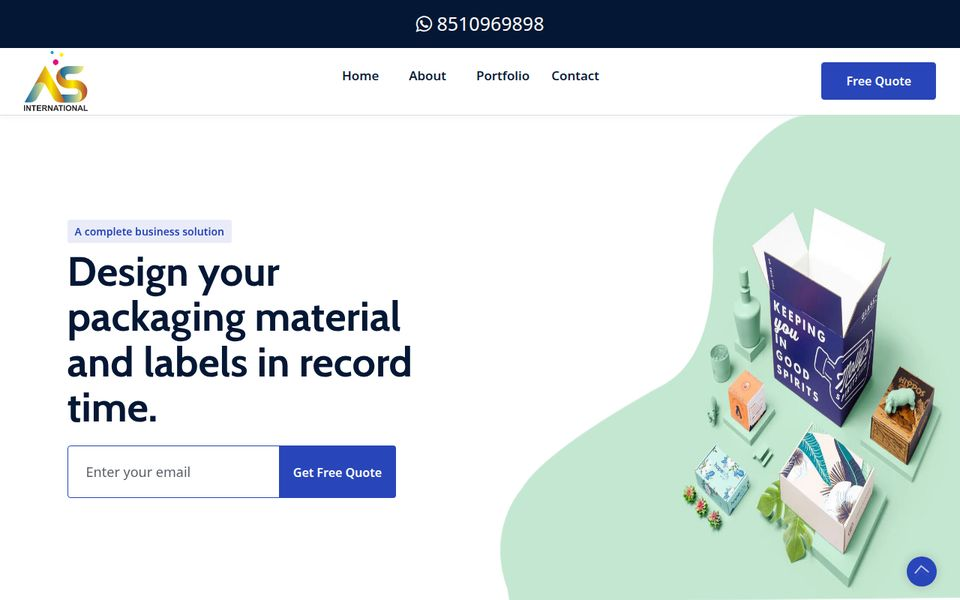
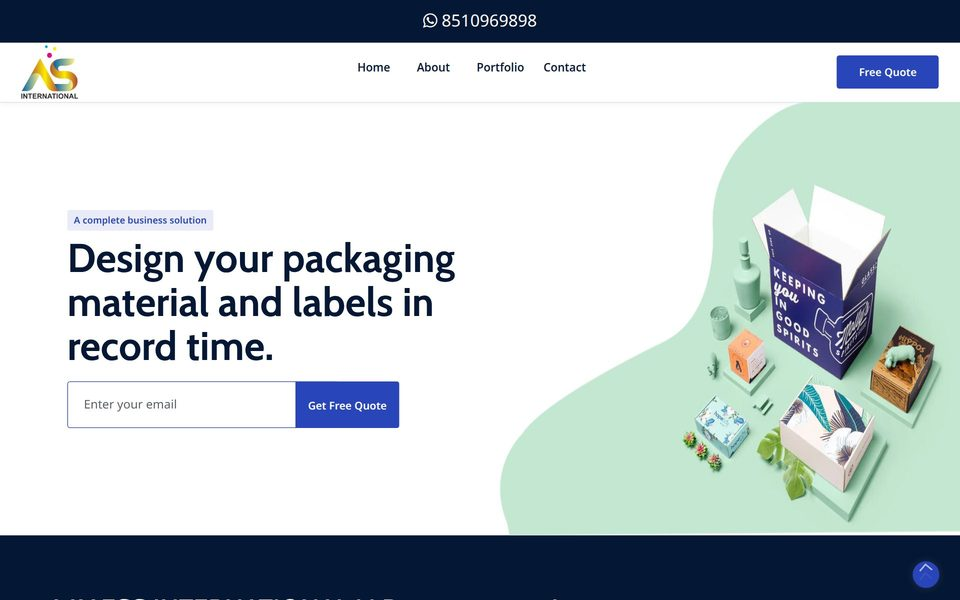
Founder on the About page, sharper work screenshots for high-resolution screens, first four blog posts added as drafts

diff --git a/console/migrations/m261129_100000_add_first_blog_posts.php b/console/migrations/m261129_100000_add_first_blog_posts.php
@@ -1,0 +1,259 @@
+<?php
+
+declare(strict_types=1);
+
+use yii\db\Migration;
+
+/**
+ * The blog's first four posts, added as Drafts: staff read them, add a cover image and publish from the admin.
+ * Can be run again: a post or category whose slug already exists is left as it is.
+ */
+final class m261129_100000_add_first_blog_posts extends Migration
+{
+    private const CATEGORIES = [
+        'guides' => 'Guides for business owners',
+        'working-with-a-developer' => 'Working with a developer',
+    ];
+
+    public function safeUp(): void
+    {
+        $now = time();
+        $categoryIds = [];
+        foreach (self::CATEGORIES as $slug => $name) {
+            $id = $this->db->createCommand('SELECT id FROM {{%blog_category}} WHERE slug = :slug', [':slug' => $slug])->queryScalar();
+            if ($id === false) {
+                $this->insert('{{%blog_category}}', ['name' => $name, 'slug' => $slug, 'created_at' => $now, 'updated_at' => $now]);
+                $id = $this->db->getLastInsertID();
+            }
+            $categoryIds[$slug] = (int) $id;
+        }
+        foreach (self::posts() as $post) {
+            $exists = $this->db->createCommand('SELECT 1 FROM {{%blog_post}} WHERE slug = :slug', [':slug' => $post['slug']])->queryScalar();
+            if ($exists !== false) {
+                continue;
+            }
+            $this->insert('{{%blog_post}}', [
+                'category_id' => $categoryIds[$post['category']],
+                'title' => $post['title'],
+                'slug' => $post['slug'],
+                'summary' => $post['summary'],
+                'body' => $post['body'],
+                'seo_title' => $post['seo_title'],
+                'status' => 0,
+                'created_at' => $now,
+                'updated_at' => $now,
+            ]);
+        }
+    }
+
+    public function safeDown(): void
+    {
+        // Only drafts nobody has published; categories are kept if any post uses them.
+        $this->delete('{{%blog_post}}', ['slug' => array_column(self::posts(), 'slug'), 'status' => 0]);
+        foreach (array_keys(self::CATEGORIES) as $slug) {
+            $id = $this->db->createCommand('SELECT id FROM {{%blog_category}} WHERE slug = :slug', [':slug' => $slug])->queryScalar();
+            if ($id !== false && $this->db->createCommand('SELECT COUNT(*) FROM {{%blog_post}} WHERE category_id = :id', [':id' => $id])->queryScalar() == 0) {
+                $this->delete('{{%blog_category}}', ['id' => $id]);
+            }
+        }
+    }
+
+    /** @return list<array{slug: string, category: string, title: string, seo_title: string, summary: string, body: string}> */
+    private static function posts(): array
+    {
+        return [
+            [
+                'slug' => 'php-8-2-end-of-life-31-december-2026',
+                'category' => 'guides',
+                'title' => 'PHP 8.2 stops getting security fixes on 31 December 2026: is your website ready?',
+                'seo_title' => 'PHP 8.2 end of life on 31 December 2026: what to do',
+                'summary' => 'After 31 December 2026, PHP 8.2 gets no more security fixes. How to check which PHP version your website runs, what can break when you upgrade, and a safe way to move to PHP 8.4 or 8.5.',
+                'body' => <<<'HTML'
+<p>Most business websites, online shops and customer portals run on PHP. Each PHP version is supported for four years: two years of bug fixes, then two years of security fixes only. After that, newly found security holes in that version are no longer fixed.</p>
+<p><strong>PHP 8.2 reaches that point on 31 December 2026.</strong> PHP 8.1 already did on 31 December 2025. If your website runs on either, it is time to plan the upgrade.</p>
+
+<h2>Where each version stands</h2>
+<ul>
+<li><strong>PHP 8.1:</strong> no security fixes since 31 December 2025.</li>
+<li><strong>PHP 8.2:</strong> security fixes until 31 December 2026.</li>
+<li><strong>PHP 8.3:</strong> security fixes until 31 December 2027.</li>
+<li><strong>PHP 8.4:</strong> security fixes until 31 December 2028.</li>
+<li><strong>PHP 8.5:</strong> security fixes until 31 December 2029.</li>
+</ul>
+<p>Anything older (PHP 7.x, 5.x) has been unsupported for years. If your site still runs on one of these, it is the most urgent case of all.</p>
+
+<h2>Why it matters even if the site "works fine"</h2>
+<p>An old PHP version does not stop working on the last day. The risk is quieter: when a new security problem is found, it is fixed in the supported versions only. Your site stays exposed, and attackers scan the web for exactly these sites. Many hosting companies also remove old PHP versions from their servers over time, and the upgrade then happens on their schedule instead of yours.</p>
+
+<h2>How to check your PHP version</h2>
+<ul>
+<li><strong>cPanel hosting:</strong> open <em>Select PHP Version</em> or <em>MultiPHP Manager</em>. The current version is shown for each domain.</li>
+<li><strong>WordPress:</strong> go to <em>Tools → Site Health → Info → Server</em>.</li>
+<li><strong>Not sure?</strong> Ask your developer or hosting provider. It is a one-minute question for them.</li>
+</ul>
+
+<h2>What can break when you upgrade</h2>
+<p>Newer PHP versions remove or tighten things that older code relied on. The usual problems are:</p>
+<ul>
+<li><strong>Old plugins, themes or extensions</strong> that were never updated by their authors.</li>
+<li><strong>Custom code written years ago,</strong> for example code that adds properties to objects on the fly (deprecated since PHP 8.2) or uses functions that no longer exist.</li>
+<li><strong>Payment and shipping integrations</strong> built on old software libraries.</li>
+</ul>
+<p>Often the fix is small. But you want to find these problems on a copy of the site, not on the live site in front of your customers.</p>
+
+<h2>A safe way to upgrade</h2>
+<ol>
+<li><strong>Take a full backup</strong> of the files and the database.</li>
+<li><strong>Make a copy of the site</strong> (a staging site) on the new PHP version.</li>
+<li><strong>Update the CMS, plugins and libraries</strong> on the copy first.</li>
+<li><strong>Test what earns you money:</strong> contact forms, checkout, payments, customer login, emails.</li>
+<li><strong>Read the error log</strong> for warnings, even when pages look fine.</li>
+<li><strong>Switch the live site</strong>, keeping the old version available for a quick rollback.</li>
+<li><strong>Watch the logs</strong> for a few days after the switch.</li>
+</ol>
+<p>Moving to PHP 8.4 or 8.5 now buys you two or three more years before the next upgrade. Newer versions are usually a little faster too.</p>
+
+<h2>Need a hand?</h2>
+<p>We upgrade older websites and applications to current PHP versions, including custom code that nobody has touched in years. Tell us what your site runs on and we will tell you what the upgrade involves before any work starts.</p>
+HTML,
+            ],
+            [
+                'slug' => 'european-accessibility-act-websites-selling-to-eu',
+                'category' => 'guides',
+                'title' => 'Selling online to customers in the EU? The European Accessibility Act now applies to your website',
+                'seo_title' => 'European Accessibility Act: what it means for your online shop',
+                'summary' => 'Since 28 June 2025, online shops and many digital services sold to consumers in the EU must be accessible to people with disabilities. Who it covers, the standard it points to, and a practical checklist.',
+                'body' => <<<'HTML'
+<p>The European Accessibility Act (Directive (EU) 2019/882) has applied since <strong>28 June 2025</strong>. It requires a range of products and services sold to consumers in the European Union to be accessible to people with disabilities. Online shopping is one of them.</p>
+<p>If you sell to customers in the EU, this affects your website, even if your company is based outside Europe.</p>
+<p><em>This article is a practical overview, not legal advice. For your specific case, check with a lawyer or the authority in the countries where you sell.</em></p>
+
+<h2>Who it covers</h2>
+<ul>
+<li><strong>E-commerce:</strong> websites and apps that sell products or services to consumers, including product pages, the basket, checkout and account pages.</li>
+<li><strong>Other services named in the Act:</strong> including consumer banking, e-books, electronic communications, and ticketing for passenger transport.</li>
+<li><strong>Businesses outside the EU</strong> that offer these services to consumers in the EU.</li>
+</ul>
+<p>There is an exemption for <strong>microenterprises providing services</strong>: fewer than 10 employees and an annual turnover or balance sheet total of no more than €2 million. Business-to-business sales are generally outside the Act.</p>
+
+<h2>What "accessible" means in practice</h2>
+<p>The Act describes requirements in general terms. The European standard it relies on, EN 301 549, follows the <strong>Web Content Accessibility Guidelines (WCAG) at level AA</strong> for web content: WCAG 2.1 in the version used for years, WCAG 2.2 in the 2026 update (version 4.1.1). Aiming for WCAG 2.2 AA covers both, and is the practical target for most websites.</p>
+<p>You are also expected to explain how your service meets the requirements, in your terms and conditions or in an accessibility statement on the website.</p>
+
+<h2>A checklist for your online shop</h2>
+<ul>
+<li><strong>Keyboard:</strong> can someone browse, add to the basket and pay using only the keyboard? Is it always visible where the focus is?</li>
+<li><strong>Images:</strong> do product photos and icons that carry meaning have a text alternative?</li>
+<li><strong>Contrast:</strong> is the text readable against its background, including grey text and text on photos?</li>
+<li><strong>Forms:</strong> does every field have a visible label? Do error messages say what went wrong and how to fix it?</li>
+<li><strong>Zoom:</strong> does the page still work when the text is enlarged to 200%?</li>
+<li><strong>Video:</strong> do product videos have captions?</li>
+<li><strong>Checkout and payment pages:</strong> including any payment window from a third party. Ask your payment provider about their accessibility.</li>
+<li><strong>Time limits and pop-ups:</strong> can people close them, and do they get enough time?</li>
+</ul>
+
+<h2>Where to start</h2>
+<ol>
+<li><strong>Test the main journey first:</strong> home page, a product, the basket, checkout, and your account pages.</li>
+<li><strong>Use automated checks</strong> (such as the free Lighthouse report built into Chrome). They catch a part of the problems, not all.</li>
+<li><strong>Test by hand</strong> with the keyboard and a screen reader for the rest.</li>
+<li><strong>Fix, then publish</strong> an accessibility statement saying what you meet and how people can contact you.</li>
+</ol>
+<p>Accessibility work usually improves the site for everyone: clearer forms, readable text and pages that work on any device. Fewer abandoned checkouts is a welcome side effect.</p>
+
+<h2>Need a hand?</h2>
+<p>We review online shops against WCAG 2.2 AA and fix what we find, from contrast and labels to keyboard access in the checkout. Ask us for an audit of your site.</p>
+HTML,
+            ],
+            [
+                'slug' => 'ai-search-small-business-website',
+                'category' => 'guides',
+                'title' => 'When Google answers before the click: making your business website useful to AI search',
+                'seo_title' => 'AI search and your business website: what still works',
+                'summary' => 'Google\'s AI Overviews and AI Mode, ChatGPT and other assistants now answer many questions directly. What that changes for a small business website, and the practical things that help you get mentioned and visited.',
+                'body' => <<<'HTML'
+<p>Search has changed. For many questions, Google now shows an AI-written answer at the top of the page, and AI Mode turns search into a conversation. People also ask ChatGPT, Gemini and other assistants directly. These answers usually name and link the websites they draw from.</p>
+<p>For a small business, the question is simple: when someone asks about what you do, will your website be one of the sources?</p>
+
+<h2>No special trick is needed</h2>
+<p>Google has said that its AI features rely on the same things as normal search: a page that can be crawled and indexed, and content that is helpful to people. There is no separate file or markup that makes AI choose you. That is good news, because the work that helps is the work that also helps your customers.</p>
+
+<h2>What helps</h2>
+<ul>
+<li><strong>Answer real questions on your pages.</strong> Write down the questions customers ask you on the phone or by email, and answer them clearly on the site: what you offer, for whom, where, for how much, and how long it takes.</li>
+<li><strong>Put the facts in text, not only in images.</strong> Prices, service areas, opening hours and contact details inside a picture or a PDF are easy to miss.</li>
+<li><strong>Keep your business details the same everywhere:</strong> your website, Google Business Profile and directories. AI answers often combine these sources.</li>
+<li><strong>Show who is behind the business.</strong> Real names, experience, photos of your work and real customer reviews give a page weight that generic text does not have.</li>
+<li><strong>Write from experience.</strong> AI summaries are built on what is already out there. A page that only repeats it has little reason to be cited; a page with your own examples, numbers and opinions does.</li>
+<li><strong>Add structured data</strong> (schema.org) for your organisation, local business, products and articles, so machines read the facts correctly.</li>
+<li><strong>Keep the site fast and working on phones,</strong> with every important page linked from your menus or sitemap.</li>
+</ul>
+
+<h2>What to measure now</h2>
+<p>Fewer clicks for simple questions is a real effect: if the answer is on the results page, some people do not visit. The visitors who do click are often further along, ready to compare or buy. So look beyond the visitor count:</p>
+<ul>
+<li>Enquiries, calls and sales from the website.</li>
+<li>In Google Search Console, which searches show your pages and which pages get clicks.</li>
+<li>Whether assistants mention your business when you ask them about your service and city.</li>
+</ul>
+
+<h2>A short plan</h2>
+<ol>
+<li>List the ten questions customers ask you most.</li>
+<li>Check that each one is clearly answered on your website. Write the answer where it is not.</li>
+<li>Check your Google Business Profile matches your website.</li>
+<li>Add structured data and check it with Google's Rich Results Test.</li>
+<li>Repeat every few months: services, prices and questions change.</li>
+</ol>
+
+<h2>Need a hand?</h2>
+<p>We build and improve business websites with clear service pages, structured data and fast loading. Ask us for a free review of your website.</p>
+HTML,
+            ],
+            [
+                'slug' => 'hiring-a-web-developer-in-india-from-abroad',
+                'category' => 'working-with-a-developer',
+                'title' => 'Hiring a web developer in India from abroad: 10 things to agree before work starts',
+                'seo_title' => 'Hiring a web developer in India: 10 things to agree first',
+                'summary' => 'Working with a development team in India can save money and time, if the basics are agreed in writing first. A checklist from our side of the table: scope, payments, code ownership, accounts, time zones and support after launch.',
+                'body' => <<<'HTML'
+<p>Many companies in the US, UK, Europe and Australia have their websites and web applications built in India. When it goes well, you get experienced developers, good value and work that continues while you sleep. When it goes badly, it is almost always for the same few reasons, and nearly all of them can be avoided before the first line of code.</p>
+<p>Here are the ten things we agree with every client abroad before a project starts. Use them with whoever you hire.</p>
+
+<h2>1. A written scope and quote</h2>
+<p>Every page, feature and integration listed, with a fixed price or a clear hourly rate. "An online shop like X" is not a scope. Anything not on the list is a change, with its own price.</p>
+
+<h2>2. Milestones you can see</h2>
+<p>Split the work into stages, each with something you can open and click, and pay per stage. You never pay far ahead of what you have seen working.</p>
+
+<h2>3. Currency and payment method</h2>
+<p>Agree the currency (US dollars, pounds, euros or rupees), the method (PayPal, card or bank transfer) and who pays the fees and exchange costs. Surprises here sour good projects.</p>
+
+<h2>4. Who owns the code</h2>
+<p>The finished work should be yours once it is paid for, in writing. Check what is excluded: paid plugins, themes or the developer's own reusable tools usually come with a licence rather than ownership.</p>
+
+<h2>5. Access to the source code</h2>
+<p>Ask for the code in a repository (such as GitHub or Bitbucket) you can access during the project, not a zip file at the end.</p>
+
+<h2>6. Accounts in your name</h2>
+<p>Your domain, hosting, payment gateway and email service should be registered to your business, with the developer given access. If you part ways, nothing is held hostage.</p>
+
+<h2>7. Time zones and updates</h2>
+<p>India is 3.5 to 5.5 hours ahead of the UK and most of Europe, and 9.5 to 13.5 hours ahead of the US, depending on daylight saving. Agree a regular overlap hour for calls, a weekly written update, and one channel for questions, so nothing gets lost between email, chat and calls.</p>
+
+<h2>8. A test site and acceptance</h2>
+<p>New work goes to a test (staging) site first. Agree how long you have to check each stage and what counts as finished, so "done" means the same to both sides.</p>
+
+<h2>9. Your customers' data</h2>
+<p>If the site handles personal data of people in the EU or UK, the EU GDPR or UK GDPR may apply. Agree how data is stored, who can access it, and that test copies do not leave real customer data lying around.</p>
+
+<h2>10. Support after launch</h2>
+<p>Websites need updates, backups and the occasional fix. Agree up front what happens after launch: a warranty period for bugs, and a maintenance plan or hourly rate for everything else.</p>
+
+<h2>Working with us</h2>
+<p>Miracle Web Technologies has built websites, online shops and web applications from Delhi for 11 years, for clients in India and abroad. You get a written quote before work starts, the code is yours once its invoices are paid, and every client has a portal for invoices, payments and support tickets. Clients abroad can pay in US dollars by PayPal. Tell us about your project and we will send you a scope and quote.</p>
+HTML,
+            ],
+        ];
+    }
+}

diff --git a/frontend/views/site/about.php b/frontend/views/site/about.php
@@ -31,7 +31,11 @@ $this->params['meta_description'] = $siteName . ' is a web development company b
                     <li><strong>Upgrades:</strong> improving the site you already have, or bringing an older application up to date.</li>
                     <li><strong>Hosting, domains and maintenance:</strong> keeping your site online and up to date after launch.</li>
                 </ul>
-                <p class="mb-0">We work with PHP, Yii, MySQL, PostgreSQL and Docker.</p>
+                <p>We work with PHP, Yii, MySQL, PostgreSQL and Docker.</p>
+
+                <h2 class="mw-h2 mt-5 mb-3">Our founder</h2>
+                <p class="mb-1"><strong>M.N. Trivedi</strong>, Founder <span class="text-body-secondary">(MCA, PGDCA)</span></p>
+                <p class="mb-0">20 years in software development, 11 of them with <?= Html::encode($siteName) ?>.</p>
             </div>
             <div class="col-lg-5">
                 <div class="mw-panel">

diff --git a/frontend/views/site/index.php b/frontend/views/site/index.php
@@ -188,7 +188,7 @@ $questions = [
                 <?php foreach ($projects as $project): ?>
                     <div class="col-lg-4">
                         <article class="mw-card mw-project">
-                            <?= Html::img('@web/images/projects/' . $project['image'], ['alt' => 'Home page of ' . $project['name'], 'width' => 960, 'height' => 600, 'loading' => 'lazy']) ?>
+                            <?= Html::img('@web/images/projects/' . $project['image'], ['alt' => 'Home page of ' . $project['name'], 'srcset' => Yii::getAlias('@web/images/projects/' . str_replace('.jpg', '@2x.jpg', $project['image'])) . ' 2x', 'width' => 960, 'height' => 600, 'loading' => 'lazy']) ?>
                             <div class="mw-project-body">
                                 <p class="mw-eyebrow mb-1"><?= Html::encode($project['type']) ?></p>
                                 <h3><?= Html::encode($project['name']) ?></h3>
